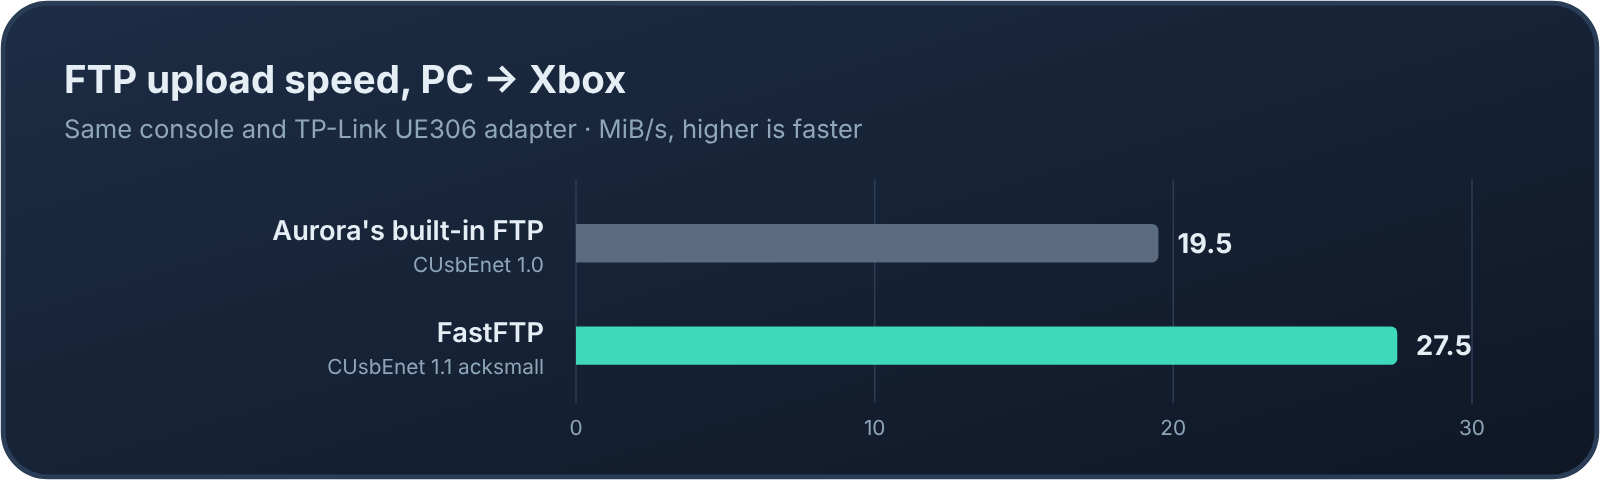
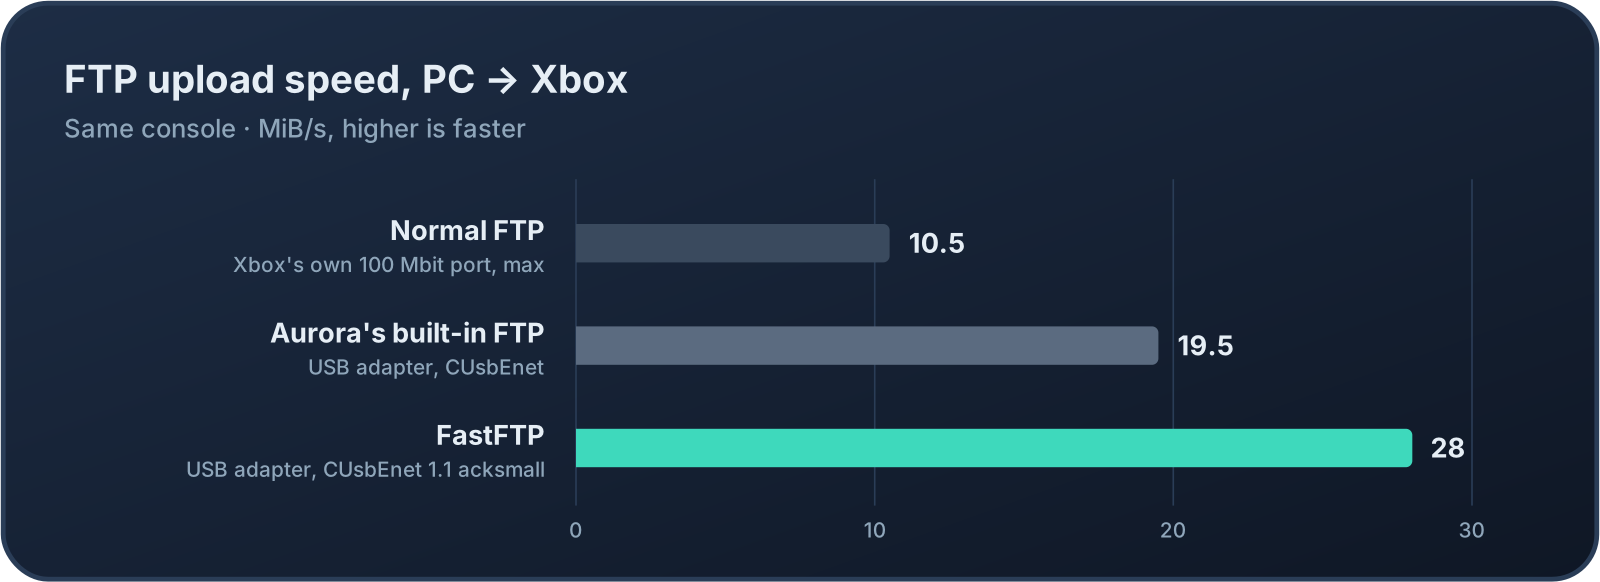
Link FastFTP's new repo and add normal FTP to the speed chart
The chart now compares normal FTP over the Xbox's own 100 Mbit port
(10.5 MiB/s), Aurora's built-in FTP over the USB adapter (19.5 MiB/s)
and FastFTP with CUsbEnet 1.1 acksmall (28 MiB/s).

Claude-Session: https://claude.ai/code/session_0188NnjAfkLBXXq3FGEawMyy

diff --git a/README.md b/README.md
@@ -12,10 +12,10 @@
 
 CUsbEnet is a driver plugin. Once it is loaded, a supported USB Ethernet adapter works like the console's own network port: Aurora, FTP servers, games and other apps use it without any changes.
 
-Version 1.1 is tuned for speed. Together with **[FastFTP](https://github.com/marcusisdahl/Xbox360-FastFTP)**, it is the fastest way we know of to copy files to an Xbox 360 over FTP: about **27.5 MiB/s** measured on uploads, against about 19.5 MiB/s with Aurora's built-in FTP on the same console.
+Version 1.1 is tuned for speed. Together with **[FastFTP](https://github.com/marcusisdahl/Xbox360_FastFTP)**, it is the fastest way we know of to copy files to an Xbox 360 over FTP: about **28 MiB/s** measured on uploads, against about 19.5 MiB/s with Aurora's built-in FTP over the same adapter and about 10.5 MiB/s with normal FTP over the console's own 100 Mbit port.
 
 <p align="center">
-  <img src="docs/images/speed.png" alt="FTP upload speed from PC to Xbox: Aurora's built-in FTP with CUsbEnet 1.0 at 19.5 MiB/s, FastFTP with CUsbEnet 1.1 acksmall at 27.5 MiB/s" width="800">
+  <img src="docs/images/speed.png" alt="FTP upload speed from PC to Xbox: normal FTP over the Xbox's own 100 Mbit port at most 10.5 MiB/s, Aurora's built-in FTP over the USB adapter 19.5 MiB/s, FastFTP with CUsbEnet 1.1 acksmall 28 MiB/s" width="800">
 </p>
 
 CUsbEnet is experimental kernel-level homebrew. Read [Safety](#safety) before you install it.
@@ -85,7 +85,7 @@ A USB 3.0 or gigabit adapter works, but the Xbox's USB 2.0 port sets the speed l
 
 ## Use it with FastFTP
 
-[FastFTP](https://github.com/marcusisdahl/Xbox360-FastFTP) is an FTP server for the Xbox 360 made alongside this driver. It writes to the disk **while** the network transfer is still running, so it can keep up with what CUsbEnet delivers. Aurora's built-in FTP can't.
+[FastFTP](https://github.com/marcusisdahl/Xbox360_FastFTP) is an FTP server for the Xbox 360 made alongside this driver. It writes to the disk **while** the network transfer is still running, so it can keep up with what CUsbEnet delivers. Aurora's built-in FTP can't.
 
 <p align="center">
   <img src="docs/images/fastftp-upload.png" alt="FastFTP receiving an upload at 26 MiB/s, with recent transfers at around 27 MiB/s" width="720">
@@ -99,16 +99,17 @@ FastFTP's network test also shows whether the network, the disk or the FTP clien
 
 ## Speed
 
-All results are from one console with a TP-Link UE306, uploading from PC to Xbox:
+All results are from one console uploading from PC to Xbox; the adapter rows use a TP-Link UE306:
 
 | Setup | Speed |
 |---|---|
+| Normal FTP, Xbox's own 100 Mbit port (no adapter) | at most about 10.5 MiB/s |
 | Aurora's built-in FTP, CUsbEnet 1.0 | about 19.5 MiB/s |
 | FastFTP network test, CUsbEnet 1.0 | about 20.7 MiB/s |
 | FastFTP network test, CUsbEnet 1.1 acksmall, all data checked | **27.66 MiB/s** |
-| FastFTP upload, CUsbEnet 1.1 acksmall | **about 27.5 MiB/s** |
+| FastFTP upload, CUsbEnet 1.1 acksmall | **about 28 MiB/s** |
 
-The maintainer has also seen 28–29 MiB/s FTP uploads with this combination.
+The maintainer has also seen up to 29 MiB/s FTP uploads with this combination.
 
 What changed in 1.1:
 
